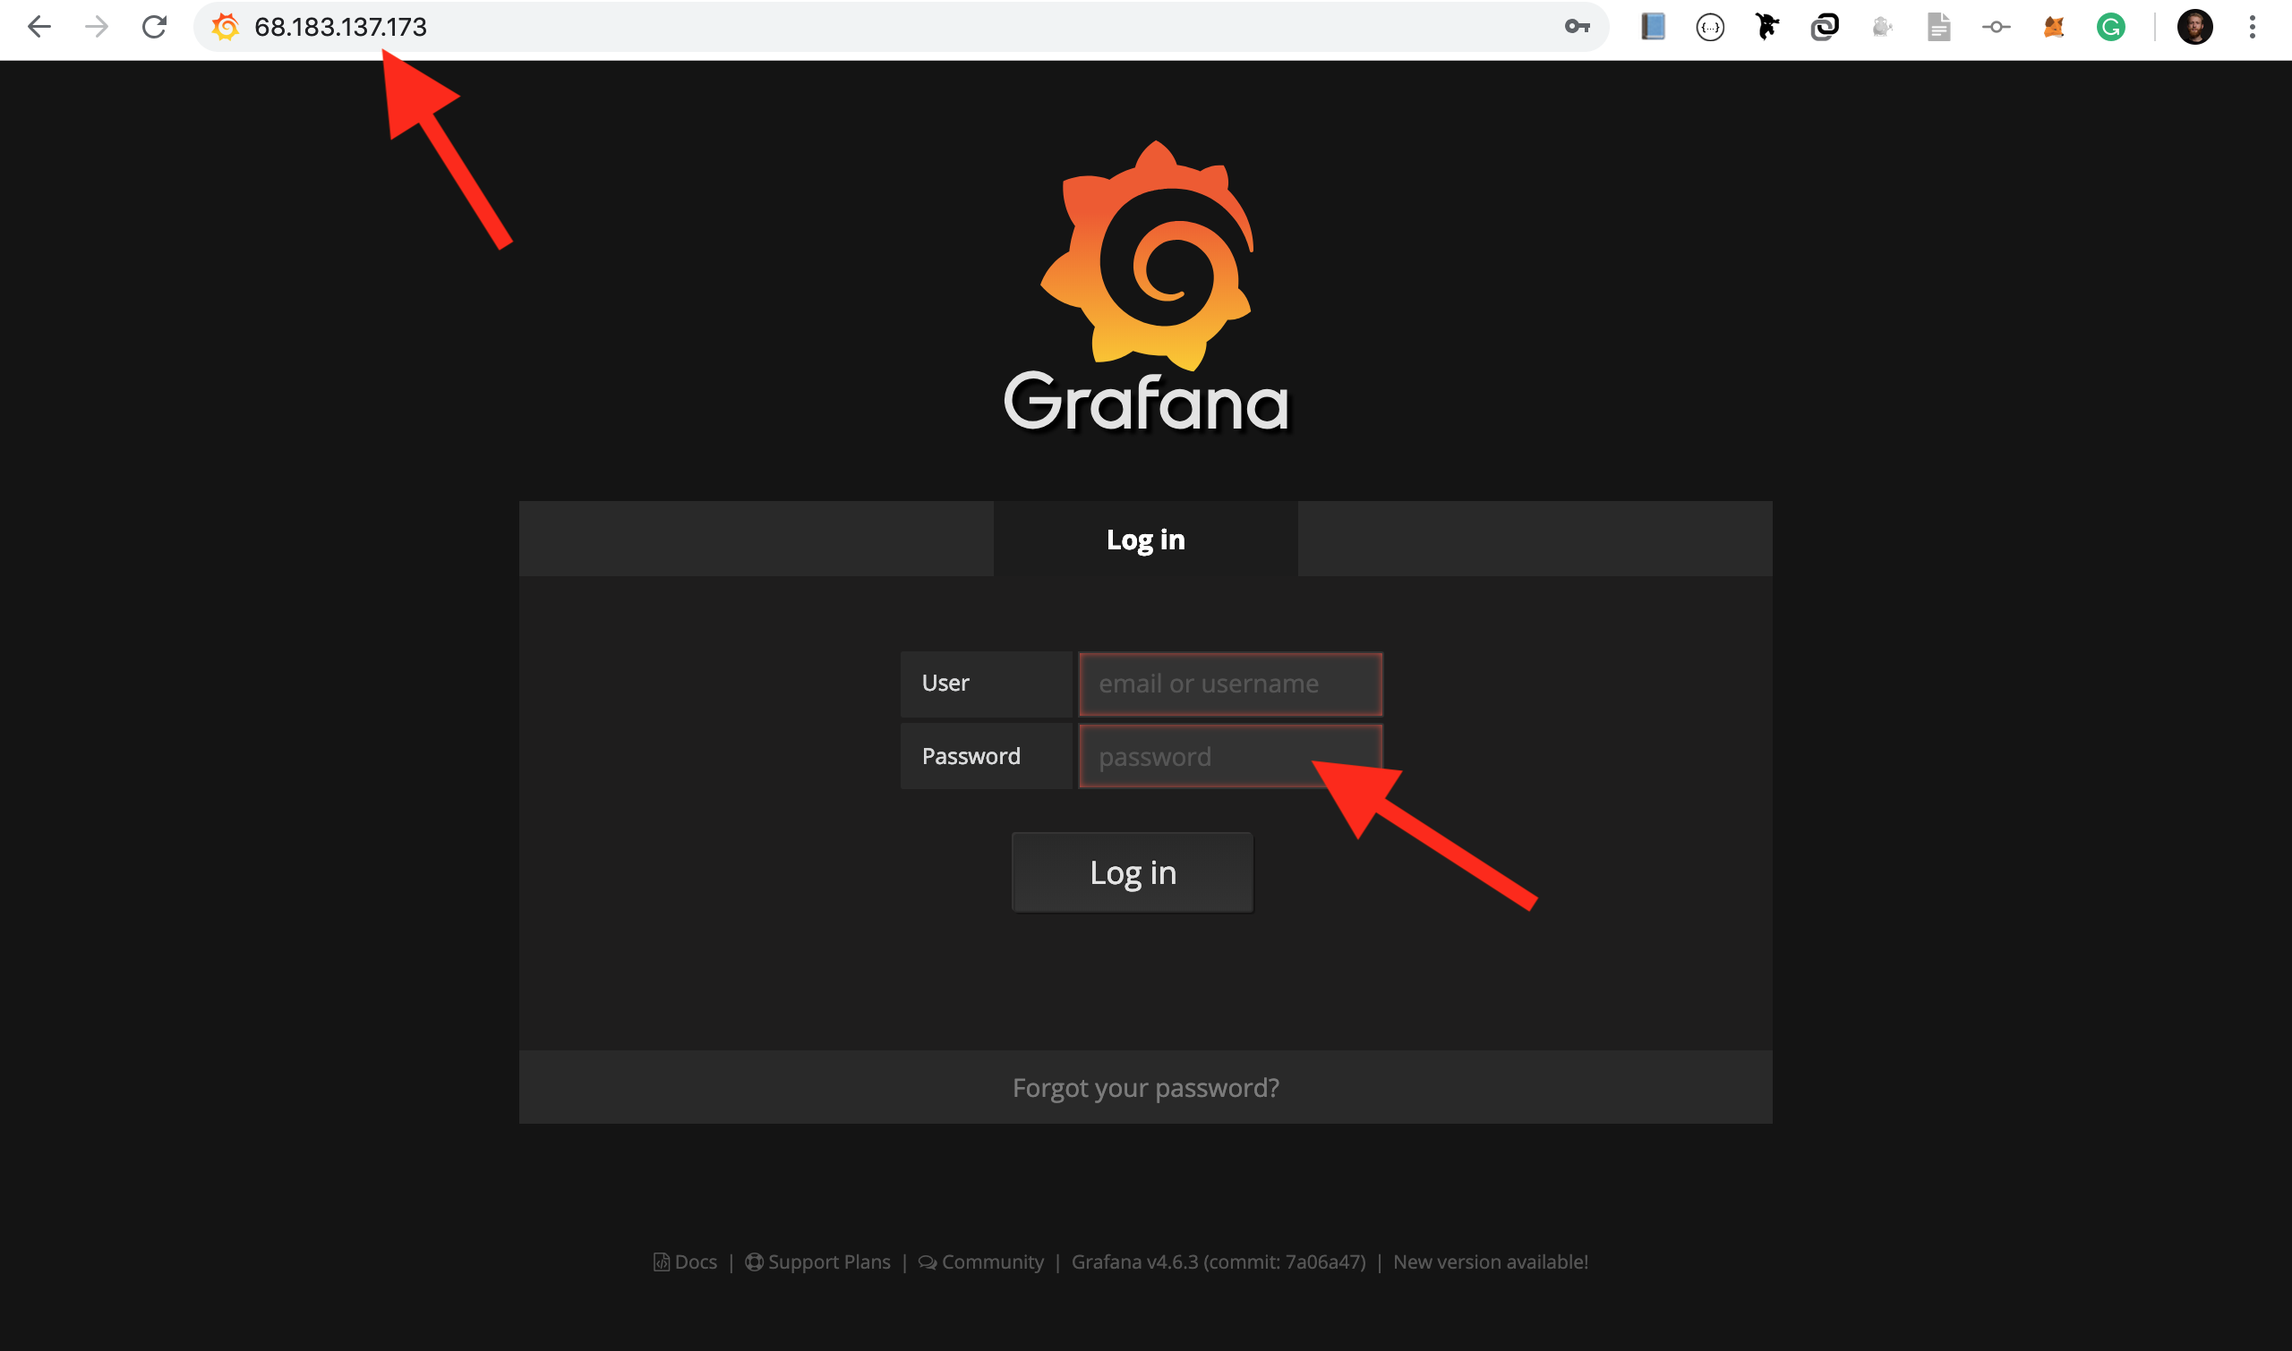
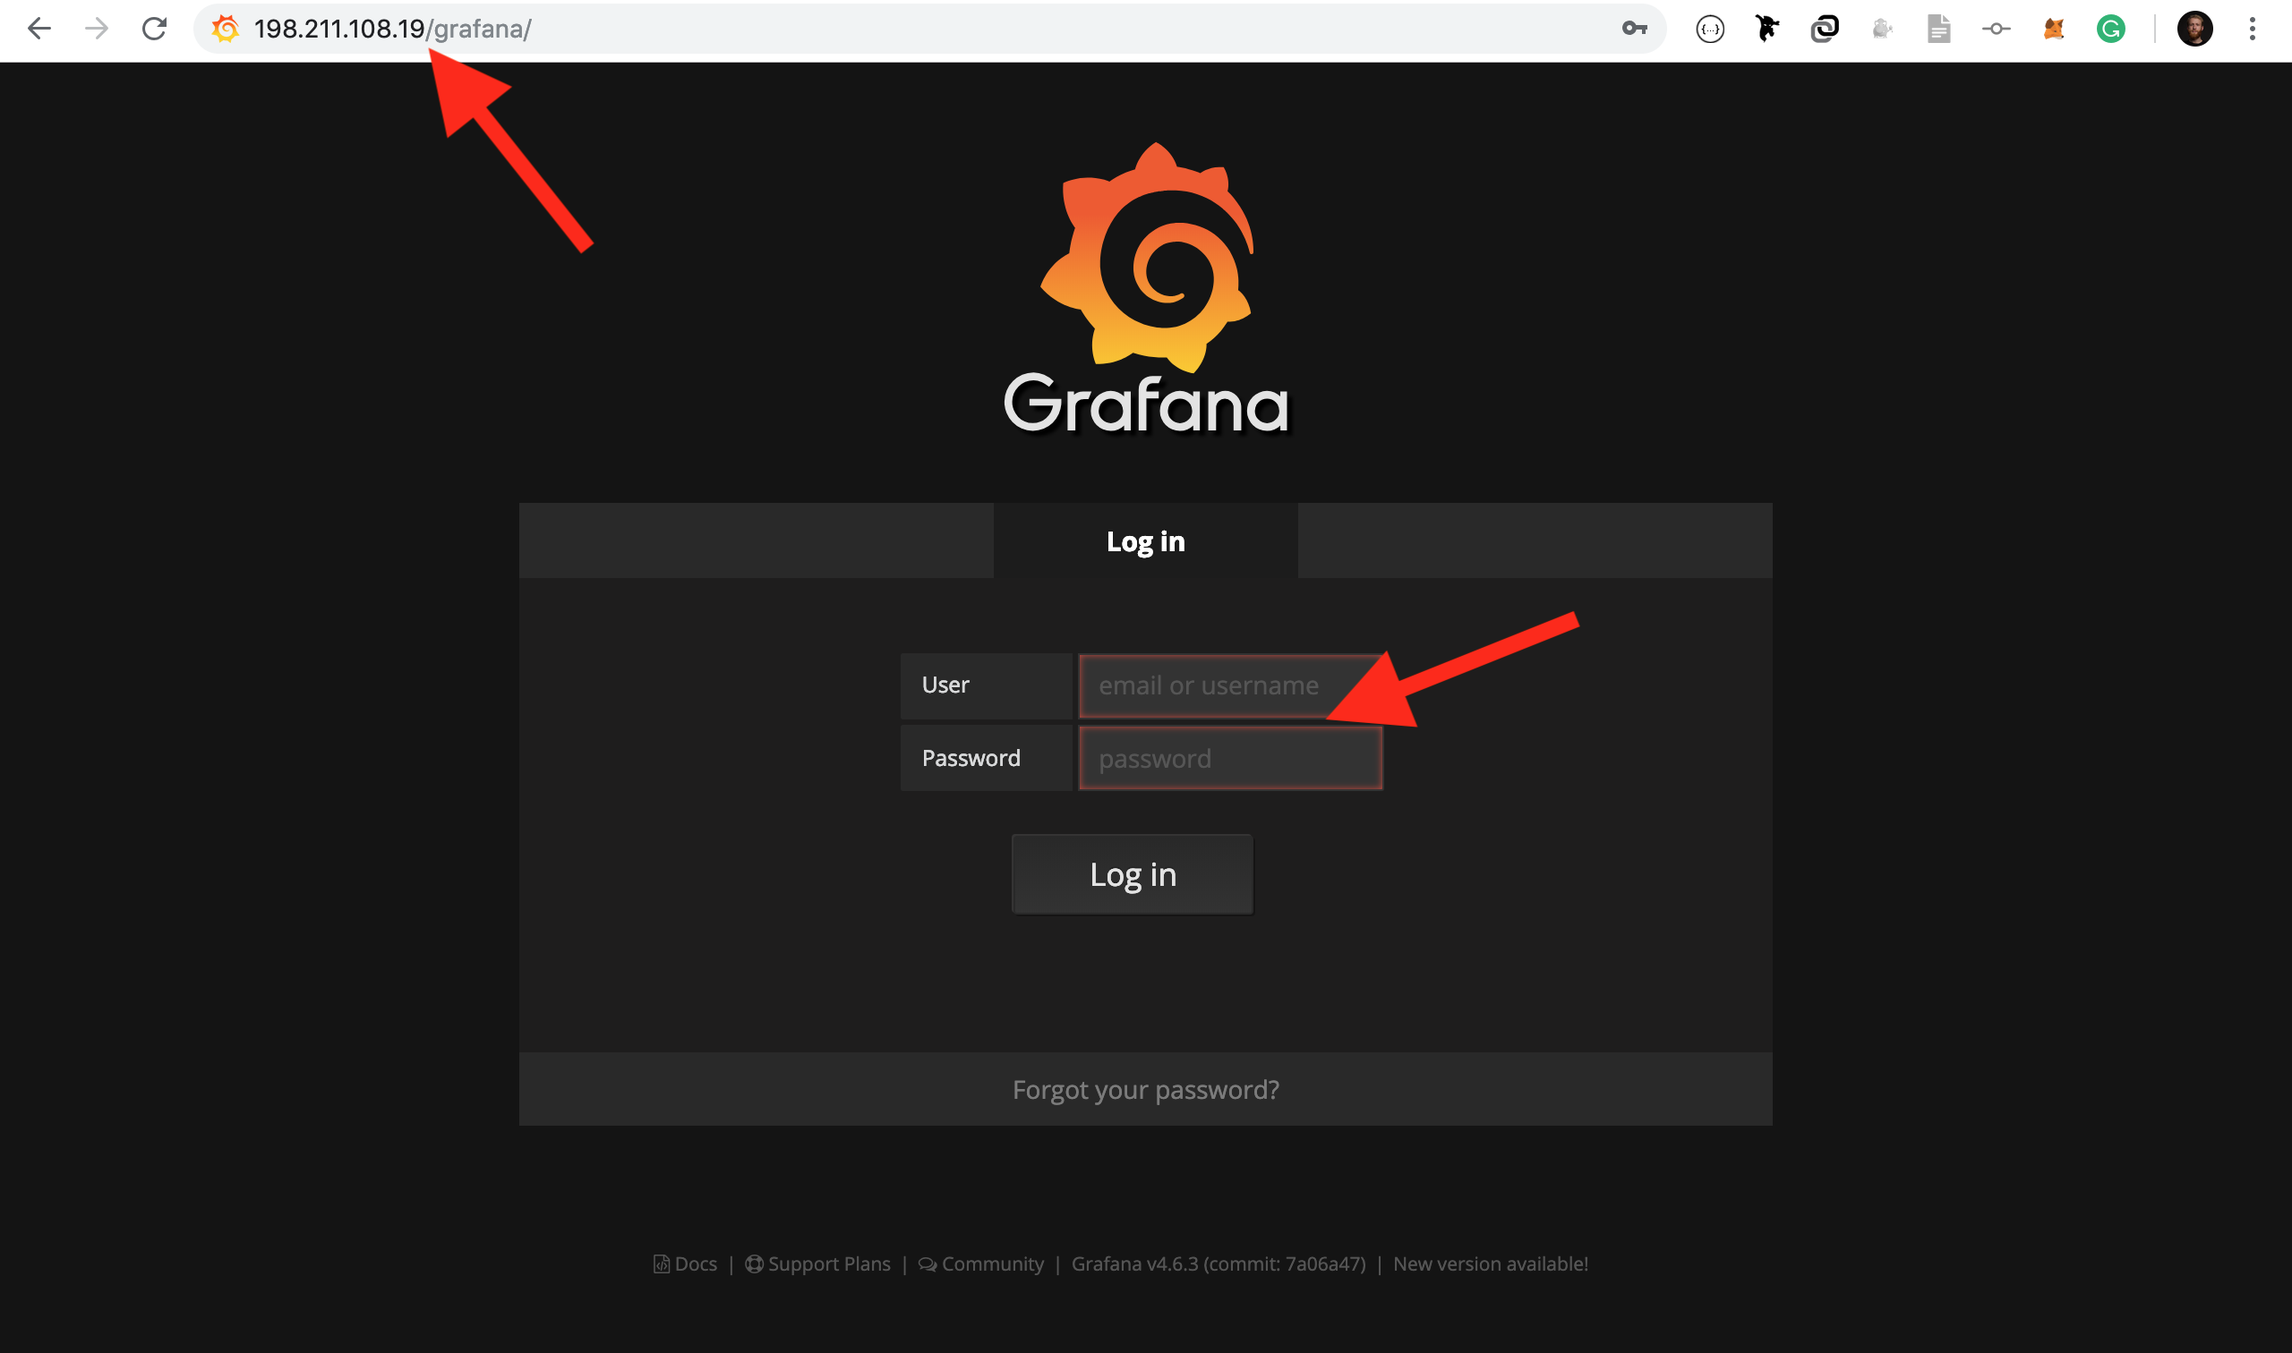
Move monitoring to basic installation

diff --git a/docs/user-guide/advanced-guide/node-ssl-cert.rst b/docs/user-guide/advanced-guide/node-ssl-cert.rst
@@ -41,12 +41,13 @@ Copy the command below and paste into the terminal which will create an ``SSL ce
 
 .. code-block:: console
 
-   $ sudo apt install software-properties-common -y && \
+    $ echo "DOMAIN=$DOMAIN" >> ~/.bashrc && \
+         sudo apt install software-properties-common -y && \
          sudo add-apt-repository ppa:certbot/certbot -y && \
-         sudo apt update && \
-         sudo apt install certbot nginx python-certbot-nginx -y && \
+         sudo apt update && sudo apt install certbot python-certbot-nginx -y && \
+         sudo -i sed -i "s@websitenamewithdomain@$DOMAIN@" /etc/nginx/nginx.conf && \
          sudo certbot run --nginx -d $DOMAIN --non-interactive --agree-tos -m $EMAIL && \
-         curl https://raw.githubusercontent.com/Remmeauth/remme-core/dev/docs/user-guide/templates/letsencrypt-nginx.conf | sudo tee /etc/nginx/nginx.conf > /dev/null && \
+         curl https://gist.githubusercontent.com/dmytrostriletskyi/5af21fdaba872d893f04186d8113b31f/raw/106bbb96923e0898a0bb98cff26874bfcb112b46/letsencrypt-nginx.conf | sudo tee /etc/nginx/nginx.conf > /dev/null && \
          sudo -i sed -i "s@websitenamewithdomain@$DOMAIN@" /etc/nginx/nginx.conf && \
          sudo systemctl restart nginx && \
          echo "* * * * * $USER /usr/bin/certbot renew" | sudo tee -a /etc/crontab > /dev/null
@@ -56,7 +57,7 @@ To check if your node has completed a correct ``SSL certificate`` setup, use the
 .. code-block:: console
 
    $ curl -X POST https://$DOMAIN -H 'Content-Type: application/json' -d \
-         '{"jsonrpc":"2.0","id":"11","method":"get_node_config","params":{}}' | python -m json.tool
+         '{"jsonrpc":"2.0","id":"11","method":"get_node_config","params":{}}' | python3 -m json.tool
 
 The flow is illustrated below.
 
@@ -145,7 +146,7 @@ Generate ``OpenSSL`` keys for your server with the following command:
 
 .. code-block:: console
 
-    $ openssl req -new -newkey rsa:2048 -nodes -keyout server.key -out server.csr
+    $ cd ~ && sudo openssl req -new -newkey rsa:2048 -nodes -keyout server.key -out server.csr
 
 The only one you are required to enter is a domain name with an extension (i.e. ``the-coolest-masternode.xyz``) to the
 fields named ``Common Name``. The flow is illustrated below.
@@ -227,18 +228,16 @@ you may need a bit different kind of the ``scp`` command, check |scp_on_windows|
 
 .. code-block:: console
 
-    $ scp ~/Desktop/459F5867C44CDB4551D93938E8116D3E.txt root@157.230.226.218:/
+    $ scp ~/Desktop/459F5867C44CDB4551D93938E8116D3E.txt root@157.230.226.218:~
 
-Then open a terminal window with the server and copy and paste the command below. If you use ``Windows``, change word
-``export`` to ``set`` and install (download an archive and open it) |curl_tool| to send a request to the node in father steps.
+Then open a terminal window with the server and copy and paste the command below.
 
 .. code-block:: console
 
-   $ sudo apt-get update && sudo apt-get install nginx -y && \
-         cd / && COMODO_AUTH_FILE=$(ls *.txt) && COMODO_AUTH_FILE_NAME=${COMODO_AUTH_FILE%.*} && \
-         mkdir /var/www/comodo/ && mv /$COMODO_AUTH_FILE_NAME.txt /var/www/comodo/ && \
-         curl https://raw.githubusercontent.com/Remmeauth/remme-core/dev/docs/user-guide/templates/comodo-auth-file-nginx.conf > /etc/nginx/nginx.conf && \
-         sed -i "s@comodohashfile@$COMODO_AUTH_FILE_NAME@" /etc/nginx/nginx.conf && \
+   $ cd ~ && COMODO_AUTH_FILE=$(ls *.txt) && COMODO_AUTH_FILE_NAME=${COMODO_AUTH_FILE%.*} && \
+         sudo mkdir /var/www/comodo/ && sudo mv ~/$COMODO_AUTH_FILE_NAME.txt /var/www/comodo/ && \
+         curl https://raw.githubusercontent.com/Remmeauth/remme-core/dev/docs/user-guide/templates/comodo-auth-file-nginx.conf | sudo tee /etc/nginx/nginx.conf > /dev/null && \
+         sudo -i sed -i "s@comodohashfile@$COMODO_AUTH_FILE_NAME@" /etc/nginx/nginx.conf && \
          sudo systemctl restart nginx
 
 The command above uses the ``auth file`` to verify you are the owner of the server.
@@ -265,20 +264,20 @@ Using a brand new terminal window on the local machine transfer the file to the 
 
 .. code-block:: console
 
-    $ scp ~/Desktop/210854864.zip root@157.230.226.218:/
+    $ scp ~/Desktop/210854864.zip root@157.230.226.218:~
 
 Then open a terminal window with the server and copy and paste the commands below.
 
 .. code-block:: console
 
    $ export DOMAIN=the-coolest-masternode.xyz
-   $ sudo apt-get install unzip -y && \
-         cd / && COMODO_CERT=$(ls *.zip) && cd ~ && unzip /$COMODO_CERT && \
+   $ cd ~ && sudo apt-get install unzip -y && \
+         COMODO_CERT=$(ls *.zip) && unzip $COMODO_CERT && \
          cd "CER - CRT Files" && cat ${DOMAIN%.*}_${DOMAIN##*.}.crt My_CA_Bundle.ca-bundle > ssl-bundle.crt && \
          cd .. && mv CER\ -\ CRT\ Files/ssl-bundle.crt . && \
-         mkdir /etc/comodo/ && mv server.key ssl-bundle.crt /etc/comodo/ && \
-         curl https://raw.githubusercontent.com/Remmeauth/remme-core/dev/docs/user-guide/templates/comodo-nginx.conf > /etc/nginx/nginx.conf && \
-         sed -i "s@websitenamewithdomain@$DOMAIN@" /etc/nginx/nginx.conf && \
+         sudo mkdir /etc/comodo/ && sudo mv server.key ssl-bundle.crt /etc/comodo/ && \
+         curl https://gist.githubusercontent.com/dmytrostriletskyi/eda5c884a52956fc6e553447a6264871/raw/c8d2c029dbb679f53d1a165507c78e0c20b70840/comodo-grafana-nginx.conf | sudo tee /etc/nginx/nginx.conf > /dev/null && \
+         sudo -i sed -i "s@websitenamewithdomain@$DOMAIN@" /etc/nginx/nginx.conf && \
          sudo systemctl restart nginx
 
 To check if your node has completed a correct ``SSL certificate`` setup, use the following commands, being logged in your server.
@@ -286,7 +285,7 @@ To check if your node has completed a correct ``SSL certificate`` setup, use the
 .. code-block:: console
 
    $ curl -X POST https://$DOMAIN -H 'Content-Type: application/json' -d \
-         '{"jsonrpc":"2.0","id":"11","method":"get_node_config","params":{}}' | python -m json.tool
+         '{"jsonrpc":"2.0","id":"11","method":"get_node_config","params":{}}' | python3 -m json.tool
 
 The flow is illustrated below.
 

diff --git a/docs/user-guide/cloud/digital-ocean.rst b/docs/user-guide/cloud/digital-ocean.rst
@@ -192,10 +192,14 @@ the project that already specified in the command below.
          sudo apt update && sudo apt upgrade -y && \
          curl -fsSL https://download.docker.com/linux/ubuntu/gpg | sudo apt-key add - && \
          sudo apt update && \
-         sudo apt install docker.io -y && \
+         sudo apt install nginx docker.io -y && \
+         curl https://gist.githubusercontent.com/dmytrostriletskyi/ba920936805f5516e9dcbaaf9ade9e02/raw/f1f207768868f48c03efcb0210df3c50168d220a/node-grafana-nginx.config > /etc/nginx/nginx.conf && \
          sudo curl -o /usr/local/bin/docker-compose -L "https://github.com/docker/compose/releases/download/1.23.2/docker-compose-$(uname -s)-$(uname -m)" && \
          sudo chmod +x /usr/local/bin/docker-compose && \
-         sudo make run_genesis_bg
+         curl -L https://github.com/dmytrostriletskyi/remme-mon-stack/archive/v1.2.0.tar.gz | sudo tar zx && \
+         sudo docker-compose -f remme-mon-stack-1.2.0/docker-compose.yml up -d && \
+         sudo make run_genesis_bg && \
+         sudo systemctl restart nginx
 
 .. image:: /img/user-guide/cloud/digital-ocean/installation-command.png
    :width: 100%
@@ -250,6 +254,66 @@ The flow is illustrated below.
    :width: 100%
    :align: center
    :alt: Proof core is working
+
+Step 6: monitoring
+==================
+
+Another option to check if your node has completed a correct setup is the monitoring. While starting the node, the monitoring also
+has been installed and started. **Completing this step is required**.
+
+Monitoring is a process of tracking application performance to detect and prevent issues that could happen with your application
+on a particular server. For the monitoring, we will use ``Grafana``. |grafana| is an open source, feature-rich metrics dashboard
+and graph editor.
+
+.. |grafana| raw:: html
+
+   <a href="https://grafana.com/" target="_blank">Grafana</a>
+
+Copy your server's ``IP address``, paste it into the browser address bar. Then add ``/grafana/`` to the end of the address and press ``Enter``.
+Then you will see initial ``Grafana`` page with authentication. Enter ``admin`` to the ``User`` and ``Password`` fields.
+
+.. image:: /img/user-guide/advanced-guide/monitoring/login.png
+   :width: 100%
+   :align: center
+   :alt: Login to the Grafana
+
+After entering the initial credentials you will reach the main page. Click on ``Main Dashboard`` to open monitoring graphs for
+your node.
+
+.. image:: /img/user-guide/advanced-guide/monitoring/main-dashboard.png
+   :width: 100%
+   :align: center
+   :alt: Go to the Grafana main dashboard button
+
+Here you will find information about uptime, CPU cores and their load, memory and its load, storage and its load. Also,
+information about containers (components of the node) is presented on the right side of the page. Information
+about container includes numbers on how much CPU each uses, and so on.
+
+.. image:: /img/user-guide/advanced-guide/monitoring/dashboard.png
+   :width: 100%
+   :align: center
+   :alt: Grafana dashboard
+
+You should then personalize your your credentials. Go to the profile page.
+
+.. image:: /img/user-guide/advanced-guide/monitoring/go-to-profile.png
+   :width: 100%
+   :align: center
+   :alt: Go to the Grafana profile button
+
+Change the name, email and username. Also, the preferences can be changed to suit your user interface needs.
+
+.. image:: /img/user-guide/advanced-guide/monitoring/profile-settings.png
+   :width: 100%
+   :align: center
+   :alt: Grafana profile settings
+
+Don't forget to change the default password to a new and secure one.
+
+.. image:: /img/user-guide/advanced-guide/monitoring/change-password.png
+   :width: 100%
+   :align: center
+   :alt: Change Grafana profile password
 
 What's next?
 ============

diff --git a/docs/user-guide/cloud/aws.rst b/docs/user-guide/cloud/aws.rst
@@ -244,6 +244,66 @@ The flow is illustrated below.
    :align: center
    :alt: Proof core is working
 
+Step 6: monitoring
+==================
+
+Another option to check if your node has completed a correct setup is the monitoring. While starting the node, the monitoring also
+has been installed and started. **Completing this step is required**.
+
+Monitoring is a process of tracking application performance to detect and prevent issues that could happen with your application
+on a particular server. For the monitoring, we will use ``Grafana``. |grafana| is an open source, feature-rich metrics dashboard
+and graph editor.
+
+.. |grafana| raw:: html
+
+   <a href="https://grafana.com/" target="_blank">Grafana</a>
+
+Copy your server's ``IP address``, paste it into the browser address bar. Then add ``/grafana/`` to the end of the address and press ``Enter``.
+Then you will see initial ``Grafana`` page with authentication. Enter ``admin`` to the ``User`` and ``Password`` fields.
+
+.. image:: /img/user-guide/advanced-guide/monitoring/login.png
+   :width: 100%
+   :align: center
+   :alt: Login to the Grafana
+
+After entering the initial credentials you will reach the main page. Click on ``Main Dashboard`` to open monitoring graphs for
+your node.
+
+.. image:: /img/user-guide/advanced-guide/monitoring/main-dashboard.png
+   :width: 100%
+   :align: center
+   :alt: Go to the Grafana main dashboard button
+
+Here you will find information about uptime, CPU cores and their load, memory and its load, storage and its load. Also,
+information about containers (components of the node) is presented on the right side of the page. Information
+about container includes numbers on how much CPU each uses, and so on.
+
+.. image:: /img/user-guide/advanced-guide/monitoring/dashboard.png
+   :width: 100%
+   :align: center
+   :alt: Grafana dashboard
+
+You should then personalize your your credentials. Go to the profile page.
+
+.. image:: /img/user-guide/advanced-guide/monitoring/go-to-profile.png
+   :width: 100%
+   :align: center
+   :alt: Go to the Grafana profile button
+
+Change the name, email and username. Also, the preferences can be changed to suit your user interface needs.
+
+.. image:: /img/user-guide/advanced-guide/monitoring/profile-settings.png
+   :width: 100%
+   :align: center
+   :alt: Grafana profile settings
+
+Don't forget to change the default password to a new and secure one.
+
+.. image:: /img/user-guide/advanced-guide/monitoring/change-password.png
+   :width: 100%
+   :align: center
+   :alt: Change Grafana profile password
+
 What's next?
 ============
 

diff --git a/docs/user-guide/cloud/vultr.rst b/docs/user-guide/cloud/vultr.rst
@@ -205,6 +205,66 @@ The flow is illustrated below.
    :align: center
    :alt: Proof core is working
 
+Step 5: monitoring
+==================
+
+Another option to check if your node has completed a correct setup is the monitoring. While starting the node, the monitoring also
+has been installed and started. **Completing this step is required**.
+
+Monitoring is a process of tracking application performance to detect and prevent issues that could happen with your application
+on a particular server. For the monitoring, we will use ``Grafana``. |grafana| is an open source, feature-rich metrics dashboard
+and graph editor.
+
+.. |grafana| raw:: html
+
+   <a href="https://grafana.com/" target="_blank">Grafana</a>
+
+Copy your server's ``IP address``, paste it into the browser address bar. Then add ``/grafana/`` to the end of the address and press ``Enter``.
+Then you will see initial ``Grafana`` page with authentication. Enter ``admin`` to the ``User`` and ``Password`` fields.
+
+.. image:: /img/user-guide/advanced-guide/monitoring/login.png
+   :width: 100%
+   :align: center
+   :alt: Login to the Grafana
+
+After entering the initial credentials you will reach the main page. Click on ``Main Dashboard`` to open monitoring graphs for
+your node.
+
+.. image:: /img/user-guide/advanced-guide/monitoring/main-dashboard.png
+   :width: 100%
+   :align: center
+   :alt: Go to the Grafana main dashboard button
+
+Here you will find information about uptime, CPU cores and their load, memory and its load, storage and its load. Also,
+information about containers (components of the node) is presented on the right side of the page. Information
+about container includes numbers on how much CPU each uses, and so on.
+
+.. image:: /img/user-guide/advanced-guide/monitoring/dashboard.png
+   :width: 100%
+   :align: center
+   :alt: Grafana dashboard
+
+You should then personalize your your credentials. Go to the profile page.
+
+.. image:: /img/user-guide/advanced-guide/monitoring/go-to-profile.png
+   :width: 100%
+   :align: center
+   :alt: Go to the Grafana profile button
+
+Change the name, email and username. Also, the preferences can be changed to suit your user interface needs.
+
+.. image:: /img/user-guide/advanced-guide/monitoring/profile-settings.png
+   :width: 100%
+   :align: center
+   :alt: Grafana profile settings
+
+Don't forget to change the default password to a new and secure one.
+
+.. image:: /img/user-guide/advanced-guide/monitoring/change-password.png
+   :width: 100%
+   :align: center
+   :alt: Change Grafana profile password
+
 What's next?
 ============
 

diff --git a/docs/user-guide/advanced-guide.rst b/docs/user-guide/advanced-guide.rst
@@ -5,7 +5,5 @@ Advanced guide
 .. include:: /user-guide/advanced-guide/types-of-node-running.rst
 .. include:: /user-guide/advanced-guide/new-os-user.rst
 .. include:: /user-guide/advanced-guide/2fa-auth.rst
-.. include:: /user-guide/advanced-guide/monitoring.rst
 .. include:: /user-guide/advanced-guide/domain-name.rst
 .. include:: /user-guide/advanced-guide/node-ssl-cert.rst
-
